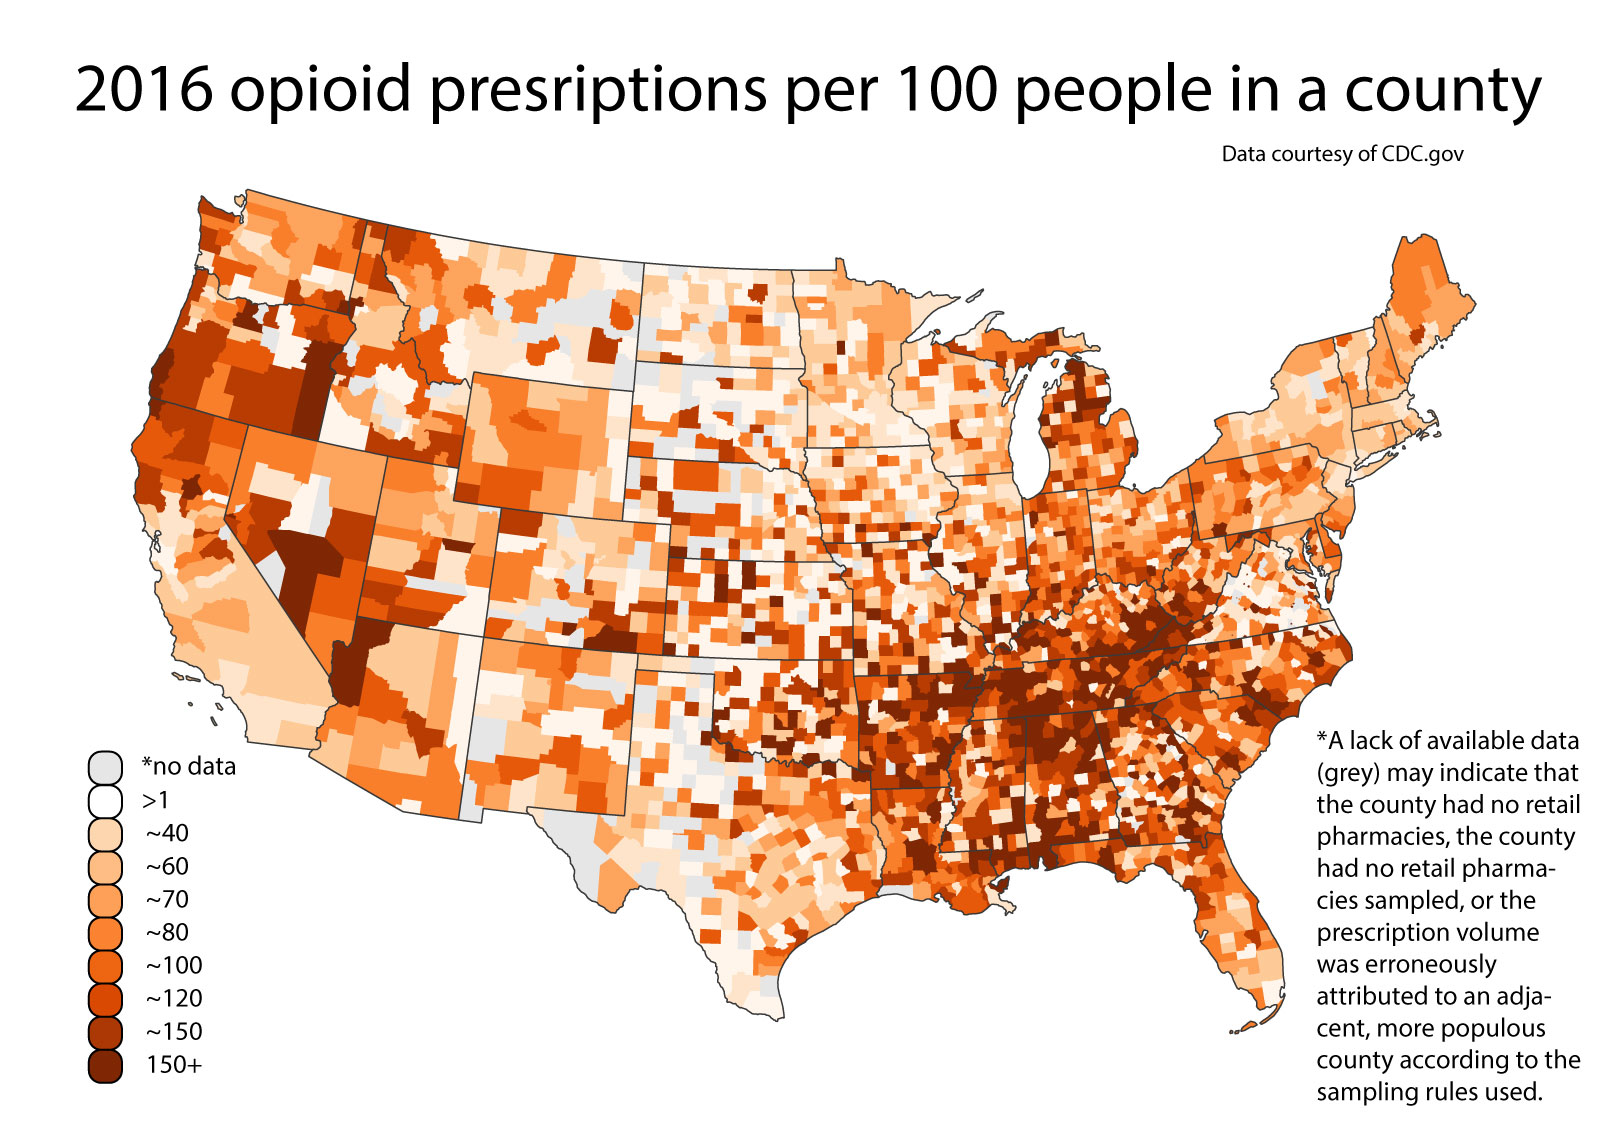
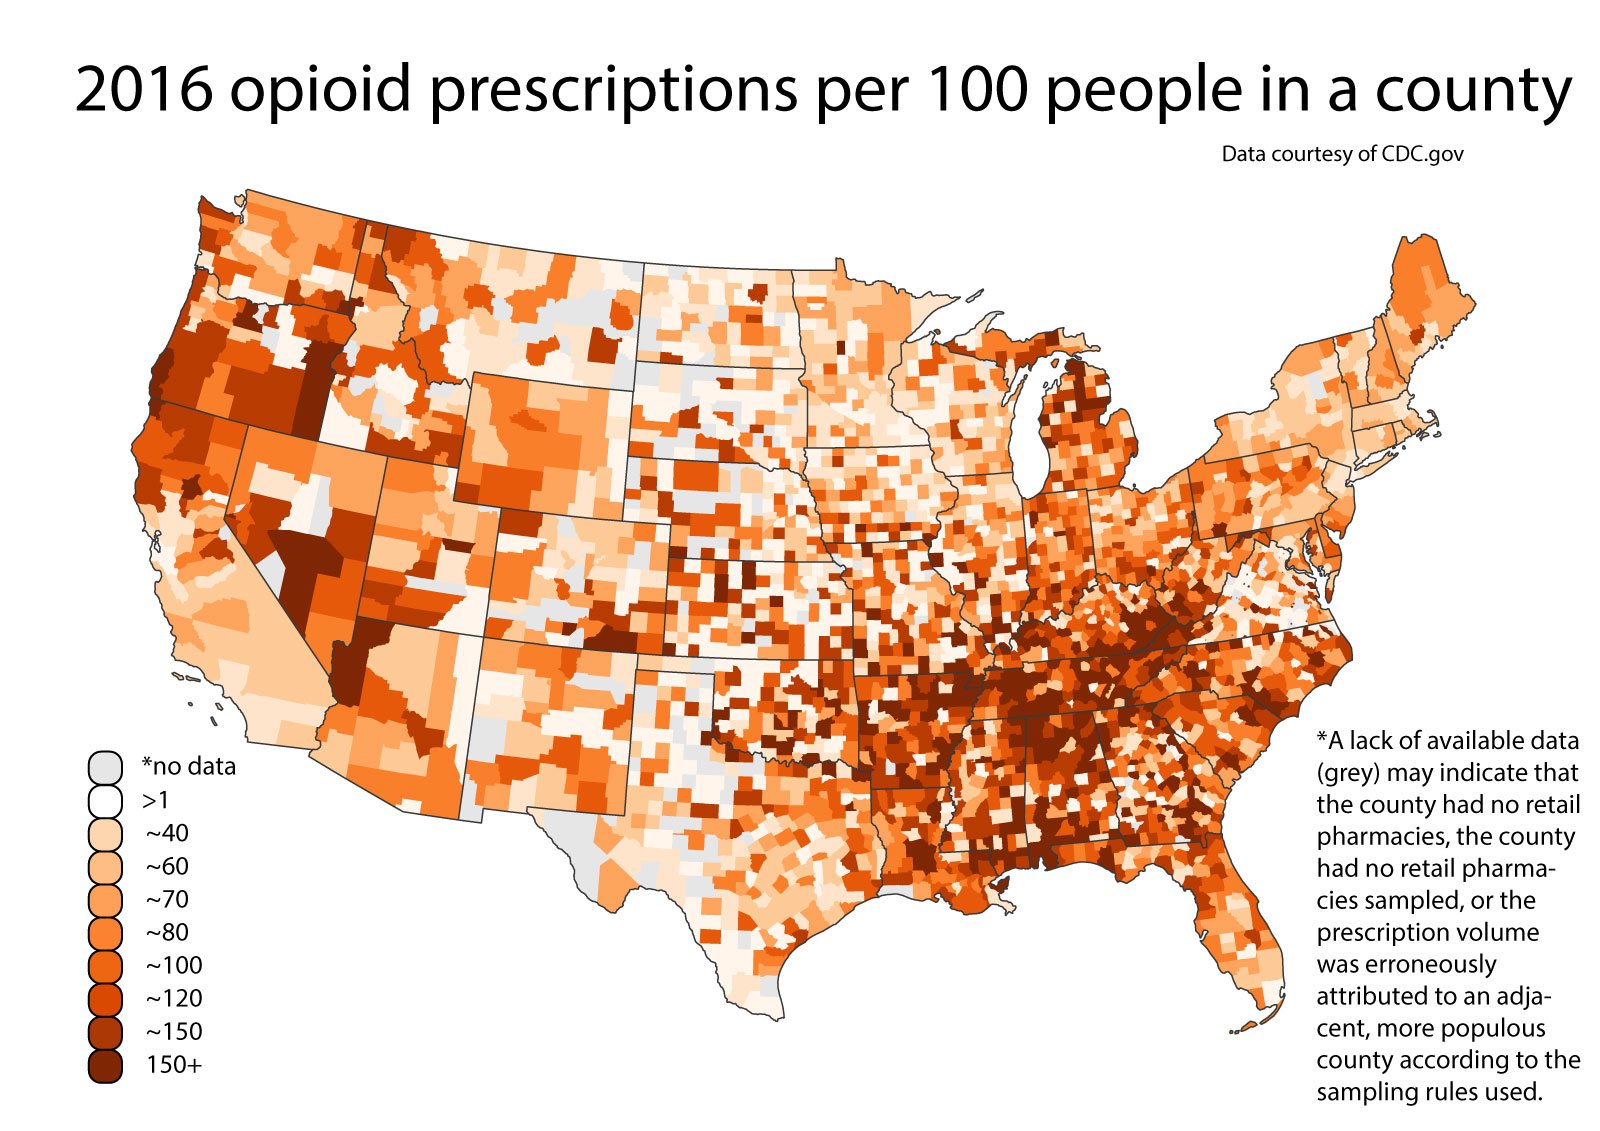
final draft edit

Changed region(s): [[0.3438, 0.0619, 1.0, 0.1238]]

diff --git a/index.html b/index.html
@@ -20,7 +20,7 @@
 
 
     <div class="container">
-      <h1>The Effect of a Decade of Rising Opiod Prescriptions on America</h1>
+      <h1>The Effect of a Decade of Rising Opioid Prescriptions on America</h1>
 
       <p>America is facing what the president called an “opioid epidemic” with the rampant over-prescription of synthetic opiate drugs such as OxyContin, Percocet, and Codeine causing overdose deaths. Originally prescribed for pain management, these drugs are killing people at an alarming rate. </p>
 
@@ -34,9 +34,9 @@
 
 <img src="images/chart 2.jpg" height =384 width =683 />
 
-<p>The prescription rate of synthetic opioids per 100 people in some rural counties across America was higher than the amount of people living in those counties at the peak in 2012. 
+<p>The prescription rate of synthetic opioids per 100 people in some rural counties across America was higher than the amount of people living in those counties at the prescription peak in 2012. 
 
-<p>Pleasants County, West Virginia was one of the most highly prescribed places for painkillers in West Virginia. The percent change of synthetic opioid prescriptions presribed increased over 80% from 2006 to 2012 in Pleasants County--which has a population of 7,674 people. </p>
+<p>Pleasants County, West Virginia was one of the most highly prescribed places for painkillers in West Virginia. Synthetic opioid prescriptions increased over 80% from 2006 to 2012 in Pleasants County--which has a population of 7,674 people. </p>
 
  <p>This year in Pleasants County there are 11 pharmacies. Residents also have access to 13 more pharmacies in neighboring Marietta, Ohio. There are 20 pharmacies in nearby Parkersburg, West Virginia. </p>
 
